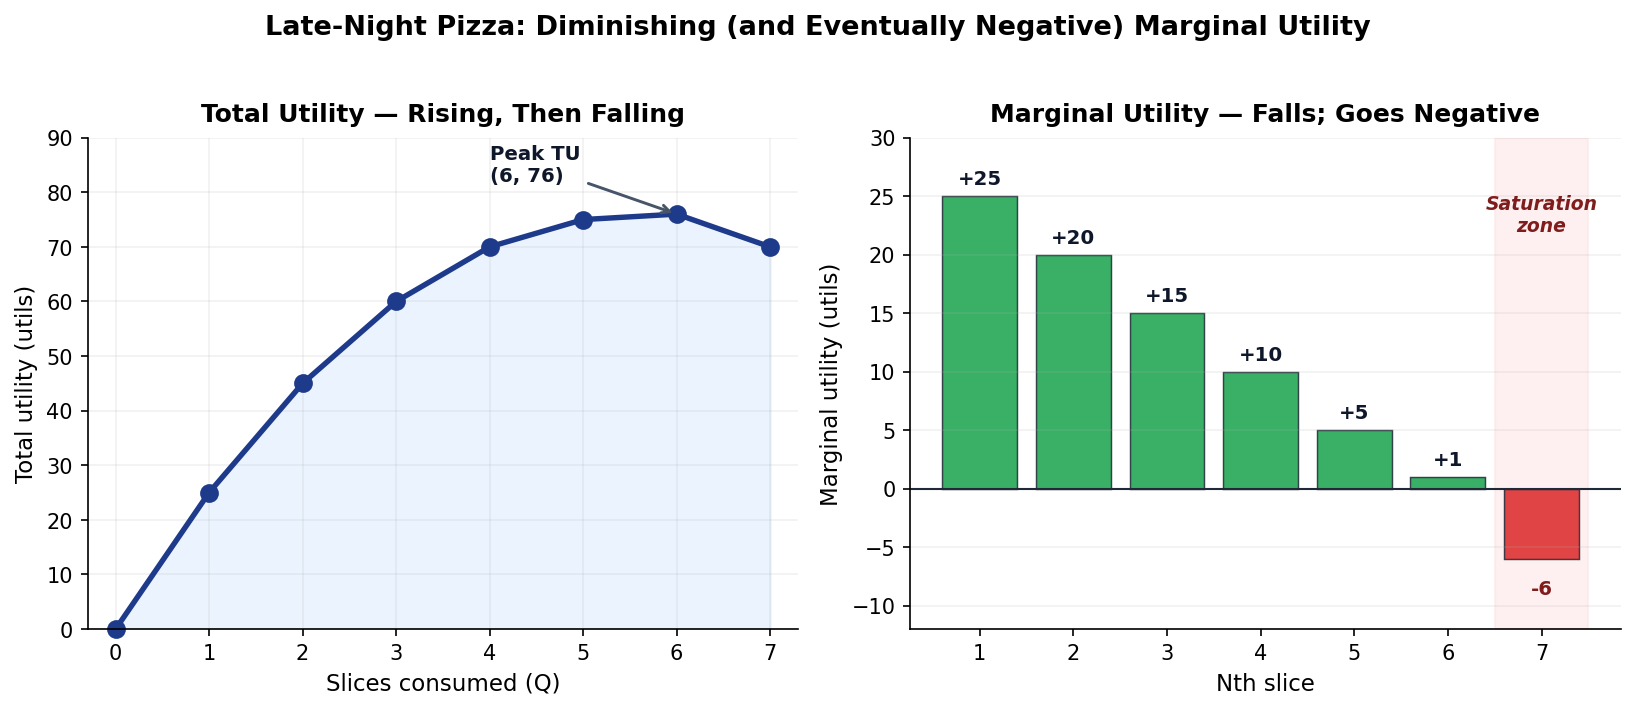
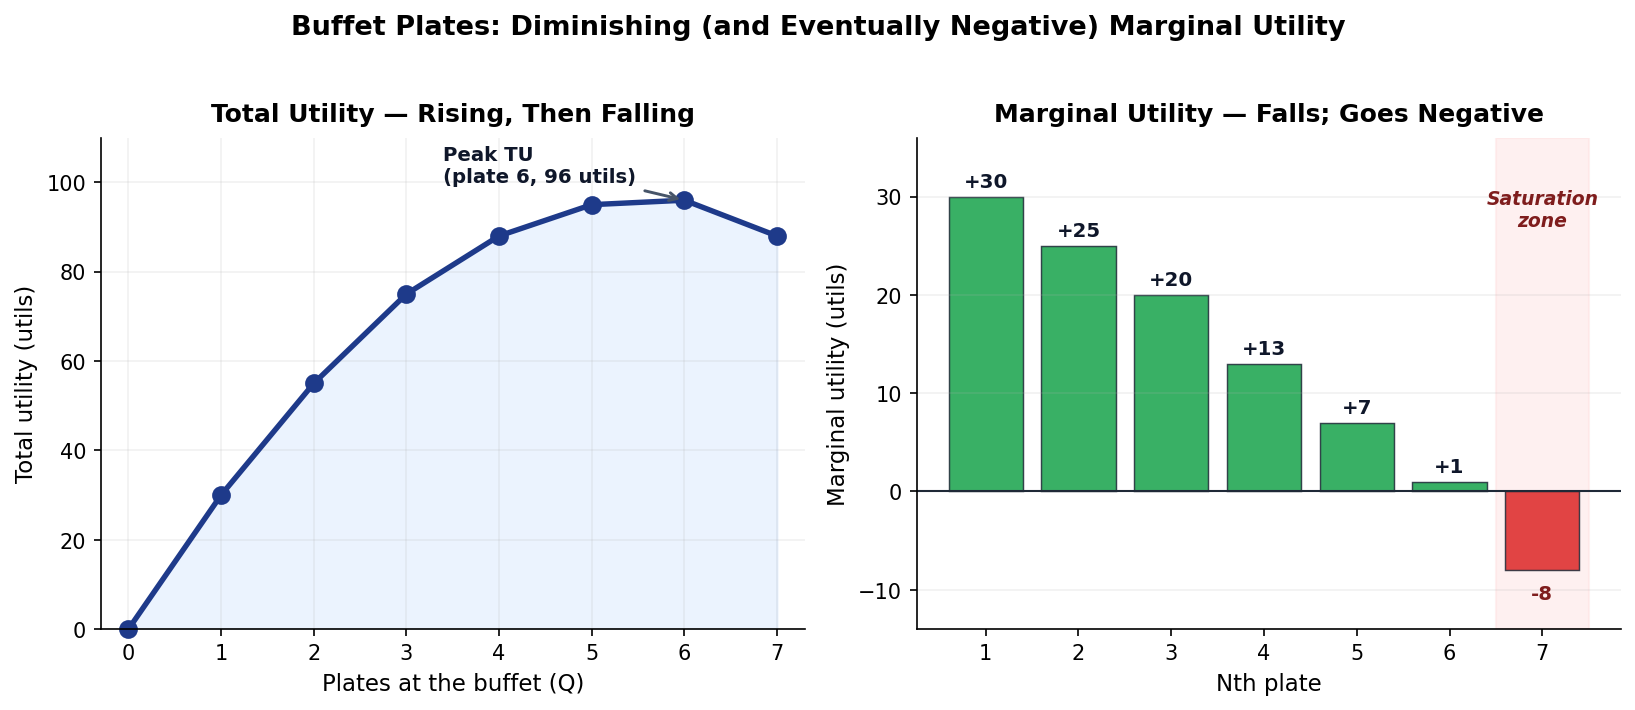
ch08: buffet diminishing-MU + binge-watching case + saturation point
Three coordinated changes around the diminishing-MU block:

1. Page 29 (diminishing-mu) — switched the example from late-night
   pizza to all-you-can-eat buffet PLATES, to match the buffet
   imagery in the preceding LDMR.mp4 video. Regenerated figure
   with new title "Buffet Plates" + plate-axis labels. Tuned MU
   sequence: +30, +25, +20, +13, +7, +1, −8 (clear saturation at
   plate 7). Peak TU at plate 6, 96 utils.

2. New page 32 (binge-watching-mu) — case study: Binge-watching
   "The Last of Us". MU bar chart with 4 episodes:
     Ep 1: 100 (Hooked, green)
     Ep 3: 60  (Satisfied, green)
     Ep 6: 0   (Indifferent, gray on zero-line)
     Ep 7: -20 (Disutility / Boredom, red)
   Closing accent callout: "The satisfaction from 'one more unit'
   falls with every episode. Eventually, consumption lowers
   well-being."

3. New page 33 (saturation-point) — "How Netflix FIGHTS the Law."
   Left half: TU curve hitting Point of Satiety (red dot, MU=0)
   then declining into the red "Auto-Play Zone." Right half: 5
   concrete Netflix anti-LDMR tactics — cliffhangers, 5-sec
   auto-play countdown, delayed "Are you still watching?",
   no commercials / no natural break points, recommendation
   engine. Closing red callout: consumers spend hours past their
   point of satiety, well-being falls but engagement metrics
   keep climbing.

Total slides 66 → 68. Standard ch08 style throughout — h2 heading,
warm-paper cards, no dark-green title bars or tilted sticky notes.

diff --git a/econ1116/ch08-consumer-choice/index.html b/econ1116/ch08-consumer-choice/index.html
@@ -1244,13 +1244,13 @@ The punchline — "variety in the middle" — previews two later concepts: (a) c
 </section>
 
 <section id="diminishing-mu">
- <h2>Diminishing Marginal Utility &mdash; The Late-Night Pizza Test</h2>
+ <h2><i class="fa-solid fa-utensils" style="color: var(--accent-color);"></i> Diminishing Marginal Utility &mdash; The All-You-Can-Eat Buffet Test</h2>
  <div style="text-align: center;">
-  <img alt="Total utility and marginal utility from pizza slices" src="figures/figure_002_diminishing_mu.png" style="max-height: 480px; max-width: 95%;">
+  <img alt="Total utility and marginal utility from buffet plates" src="figures/figure_002_diminishing_mu.png" style="max-height: 460px; max-width: 95%;">
  </div>
- <p style="font-size: 13pt; color: var(--muted-color); text-align: center; margin-top: 6px; font-style: italic;"><strong>Law of diminishing MU:</strong> as you consume more, each next unit adds less &mdash; until it adds nothing, then turns negative.</p>
+ <p style="font-size: 13pt; color: var(--muted-color); text-align: center; margin-top: 6px; font-style: italic;"><strong>Law of diminishing MU:</strong> plate 1 is heaven; by plate 5 you&rsquo;re full; plate 7 makes you feel sick. Each next plate adds less &mdash; until it adds nothing, then turns negative.</p>
  <aside class="notes">
-  Universal student example. First slice: starving, MU huge. By slice 7: miserable, MU negative. Notice TU peaks (and can fall) before MU turns negative. The exact slice doesn't matter &mdash; the pattern does.
+  Direct callback to the LDMR.mp4 buffet animation students just watched. Plate 1: starving, MU huge (+30). By plate 6: plateau (MU = +1, barely worth it). Plate 7: pushed into the saturation zone, MU = -8 (eating it makes you feel worse). TU peaks at plate 6 BEFORE MU turns negative on plate 7 — that's the kink. The exact numbers don't matter; the pattern does. Connect back: this is the same law that drives the avocado MU schedule (1 fewer util per added unit) and the beef schedule (4 fewer utils per added unit).
  </aside>
 </section>
 
@@ -1298,6 +1298,58 @@ The punchline — "variety in the middle" — previews two later concepts: (a) c
  <aside class="notes">
   Connect the abstract concept to data they can verify in their own lives. The Netflix tier shift is direct evidence of marginal utility per dollar in action: people facing tighter budgets reveal that the disutility of ads is less than $11/mo.
  </aside>
+</section>
+
+<!-- ===== Binge-watching case study — Last of Us MU bars ===== -->
+<section id="binge-watching-mu">
+  <h2><i class="fa-solid fa-tv" style="color: var(--accent-color);"></i> The Law of Diminishing Marginal Utility &mdash; <em>Binge-Watching</em></h2>
+
+  <p style="font-size: 14pt; color: var(--text-color); margin: 0 0 8px;">
+    <strong>Case Study:</strong> Binge-watching <em>The Last of Us</em>. How does each next episode feel?
+  </p>
+
+  <div style="text-align: center;">
+    <img alt="Marginal utility from binge-watching The Last of Us — Ep 1 hooked, Ep 3 satisfied, Ep 6 indifferent, Ep 7 disutility" src="figures/figure_binge_watching_mu.png" style="max-height: 440px; max-width: 92%;">
+  </div>
+
+  <div style="background: #fff3e0; border-radius: 8px; padding: 10px 22px; margin-top: 12px; border-left: 4px solid var(--accent-color);">
+    <p style="font-size: 13.5pt; margin: 0; text-align: center;">
+      The satisfaction from &ldquo;one more unit&rdquo; <strong>falls with every episode</strong>. Eventually, consumption <strong>lowers</strong> well-being.
+    </p>
+  </div>
+
+  <aside class="notes">Same law as the buffet plates and the beef/avocado MU schedules — applied to entertainment. Ep 1: hooked, MU = 100 utils. Ep 3: still satisfied, MU = 60 (already declining). Ep 6: indifferent, MU = 0 — this is the SATIETY point. Ep 7: actively bored / eye-strained / regretting, MU = -20 (NEGATIVE utility — TU is now FALLING). Connects directly to the next slide on how platforms fight this with autoplay + cliffhangers. The Last of Us is a recent vivid example — most students have either binged it or know someone who has.</aside>
+</section>
+
+<!-- ===== Saturation point + Netflix anti-LDMR tactics ===== -->
+<section id="saturation-point">
+  <h2><i class="fa-solid fa-circle-pause" style="color: #dc2626;"></i> The Saturation Point &mdash; How Netflix <em>Fights</em> the Law</h2>
+
+  <div style="display: grid; grid-template-columns: 1.15fr 1fr; gap: 18px; align-items: center;">
+    <!-- LEFT: TU curve with point of satiety + auto-play zone -->
+    <div style="text-align: center;">
+      <img alt="Total utility curve hitting Point of Satiety then declining into the Auto-Play Zone" src="figures/figure_saturation_point.png" style="width: 100%; max-height: 380px;">
+    </div>
+
+    <!-- RIGHT: Netflix tactics list -->
+    <div>
+      <div style="background: #f8f6f3; border-radius: 10px; padding: 12px 20px; border-left: 4px solid var(--accent-color);">
+        <p style="font-size: 12pt; font-weight: 700; color: var(--accent-color); text-transform: uppercase; letter-spacing: 0.06em; margin: 0 0 8px;"><i class="fa-solid fa-bolt" style="margin-right: 6px;"></i>Netflix&rsquo;s anti-LDMR toolkit</p>
+        <ul style="font-size: 13pt; line-height: 1.55; margin: 0; padding-left: 22px;">
+          <li><strong>Cliffhanger endings</strong> &mdash; writers room engineers each episode to end on a question</li>
+          <li><strong>Auto-Play 5-sec countdown</strong> &mdash; next episode starts before you can decide</li>
+          <li><strong>&ldquo;Are you still watching?&rdquo;</strong> &mdash; appears only after <em>3 hours</em>, well past satiety</li>
+          <li><strong>No commercials, no natural breaks</strong> &mdash; no built-in &ldquo;stop&rdquo; signal</li>
+          <li><strong>Recommendation engine</strong> &mdash; the next show queues automatically</li>
+        </ul>
+      </div>
+      <div style="background: #fef2f2; border-radius: 8px; padding: 10px 18px; margin-top: 10px; border-left: 4px solid #dc2626;">
+        <p style="font-size: 12pt; margin: 0;"><strong style="color: #b91c1c;">Result:</strong> consumers spend hours in the &ldquo;Auto-Play Zone&rdquo; &mdash; <em>past</em> their point of satiety, where each minute lowers well-being but engagement keeps climbing.</p>
+      </div>
+    </div>
+  </div>
+
+  <aside class="notes">The flip-side of LDMR: platforms understand the law and engineer their UX to OVERRIDE it. The TU curve peaks at the Point of Satiety (MU = 0), but auto-play + cliffhangers + the 5-second countdown push viewers PAST that peak into the &ldquo;Auto-Play Zone&rdquo; where MU is negative — TU is actually FALLING but engagement metrics keep going up. Five concrete Netflix tactics on the right: cliffhanger endings, 5-sec auto-play countdown, the delayed &ldquo;Are you still watching?&rdquo; prompt (Netflix research found it&rsquo;s designed to appear only after 3 episodes ~3 hours), no commercials, recommendation engine. This is a preview of Section 8.5 (behavioral economics) — design exploits a known cognitive shortcut. Also a connection back to subscription fatigue: even though MU per dollar is falling, Netflix can charge more because it engineered consumers into the saturation zone where they don&rsquo;t notice the diminishing returns until they cancel.</aside>
 </section>
 
 <!-- ============ HOOK: $200 ENTERTAINMENT BUDGET ============ -->

diff --git a/econ1116/ch08-consumer-choice/presentation.html b/econ1116/ch08-consumer-choice/presentation.html
@@ -1244,13 +1244,13 @@ The punchline — "variety in the middle" — previews two later concepts: (a) c
 </section>
 
 <section id="diminishing-mu">
- <h2>Diminishing Marginal Utility &mdash; The Late-Night Pizza Test</h2>
+ <h2><i class="fa-solid fa-utensils" style="color: var(--accent-color);"></i> Diminishing Marginal Utility &mdash; The All-You-Can-Eat Buffet Test</h2>
  <div style="text-align: center;">
-  <img alt="Total utility and marginal utility from pizza slices" src="figures/figure_002_diminishing_mu.png" style="max-height: 480px; max-width: 95%;">
+  <img alt="Total utility and marginal utility from buffet plates" src="figures/figure_002_diminishing_mu.png" style="max-height: 460px; max-width: 95%;">
  </div>
- <p style="font-size: 13pt; color: var(--muted-color); text-align: center; margin-top: 6px; font-style: italic;"><strong>Law of diminishing MU:</strong> as you consume more, each next unit adds less &mdash; until it adds nothing, then turns negative.</p>
+ <p style="font-size: 13pt; color: var(--muted-color); text-align: center; margin-top: 6px; font-style: italic;"><strong>Law of diminishing MU:</strong> plate 1 is heaven; by plate 5 you&rsquo;re full; plate 7 makes you feel sick. Each next plate adds less &mdash; until it adds nothing, then turns negative.</p>
  <aside class="notes">
-  Universal student example. First slice: starving, MU huge. By slice 7: miserable, MU negative. Notice TU peaks (and can fall) before MU turns negative. The exact slice doesn't matter &mdash; the pattern does.
+  Direct callback to the LDMR.mp4 buffet animation students just watched. Plate 1: starving, MU huge (+30). By plate 6: plateau (MU = +1, barely worth it). Plate 7: pushed into the saturation zone, MU = -8 (eating it makes you feel worse). TU peaks at plate 6 BEFORE MU turns negative on plate 7 — that's the kink. The exact numbers don't matter; the pattern does. Connect back: this is the same law that drives the avocado MU schedule (1 fewer util per added unit) and the beef schedule (4 fewer utils per added unit).
  </aside>
 </section>
 
@@ -1298,6 +1298,58 @@ The punchline — "variety in the middle" — previews two later concepts: (a) c
  <aside class="notes">
   Connect the abstract concept to data they can verify in their own lives. The Netflix tier shift is direct evidence of marginal utility per dollar in action: people facing tighter budgets reveal that the disutility of ads is less than $11/mo.
  </aside>
+</section>
+
+<!-- ===== Binge-watching case study — Last of Us MU bars ===== -->
+<section id="binge-watching-mu">
+  <h2><i class="fa-solid fa-tv" style="color: var(--accent-color);"></i> The Law of Diminishing Marginal Utility &mdash; <em>Binge-Watching</em></h2>
+
+  <p style="font-size: 14pt; color: var(--text-color); margin: 0 0 8px;">
+    <strong>Case Study:</strong> Binge-watching <em>The Last of Us</em>. How does each next episode feel?
+  </p>
+
+  <div style="text-align: center;">
+    <img alt="Marginal utility from binge-watching The Last of Us — Ep 1 hooked, Ep 3 satisfied, Ep 6 indifferent, Ep 7 disutility" src="figures/figure_binge_watching_mu.png" style="max-height: 440px; max-width: 92%;">
+  </div>
+
+  <div style="background: #fff3e0; border-radius: 8px; padding: 10px 22px; margin-top: 12px; border-left: 4px solid var(--accent-color);">
+    <p style="font-size: 13.5pt; margin: 0; text-align: center;">
+      The satisfaction from &ldquo;one more unit&rdquo; <strong>falls with every episode</strong>. Eventually, consumption <strong>lowers</strong> well-being.
+    </p>
+  </div>
+
+  <aside class="notes">Same law as the buffet plates and the beef/avocado MU schedules — applied to entertainment. Ep 1: hooked, MU = 100 utils. Ep 3: still satisfied, MU = 60 (already declining). Ep 6: indifferent, MU = 0 — this is the SATIETY point. Ep 7: actively bored / eye-strained / regretting, MU = -20 (NEGATIVE utility — TU is now FALLING). Connects directly to the next slide on how platforms fight this with autoplay + cliffhangers. The Last of Us is a recent vivid example — most students have either binged it or know someone who has.</aside>
+</section>
+
+<!-- ===== Saturation point + Netflix anti-LDMR tactics ===== -->
+<section id="saturation-point">
+  <h2><i class="fa-solid fa-circle-pause" style="color: #dc2626;"></i> The Saturation Point &mdash; How Netflix <em>Fights</em> the Law</h2>
+
+  <div style="display: grid; grid-template-columns: 1.15fr 1fr; gap: 18px; align-items: center;">
+    <!-- LEFT: TU curve with point of satiety + auto-play zone -->
+    <div style="text-align: center;">
+      <img alt="Total utility curve hitting Point of Satiety then declining into the Auto-Play Zone" src="figures/figure_saturation_point.png" style="width: 100%; max-height: 380px;">
+    </div>
+
+    <!-- RIGHT: Netflix tactics list -->
+    <div>
+      <div style="background: #f8f6f3; border-radius: 10px; padding: 12px 20px; border-left: 4px solid var(--accent-color);">
+        <p style="font-size: 12pt; font-weight: 700; color: var(--accent-color); text-transform: uppercase; letter-spacing: 0.06em; margin: 0 0 8px;"><i class="fa-solid fa-bolt" style="margin-right: 6px;"></i>Netflix&rsquo;s anti-LDMR toolkit</p>
+        <ul style="font-size: 13pt; line-height: 1.55; margin: 0; padding-left: 22px;">
+          <li><strong>Cliffhanger endings</strong> &mdash; writers room engineers each episode to end on a question</li>
+          <li><strong>Auto-Play 5-sec countdown</strong> &mdash; next episode starts before you can decide</li>
+          <li><strong>&ldquo;Are you still watching?&rdquo;</strong> &mdash; appears only after <em>3 hours</em>, well past satiety</li>
+          <li><strong>No commercials, no natural breaks</strong> &mdash; no built-in &ldquo;stop&rdquo; signal</li>
+          <li><strong>Recommendation engine</strong> &mdash; the next show queues automatically</li>
+        </ul>
+      </div>
+      <div style="background: #fef2f2; border-radius: 8px; padding: 10px 18px; margin-top: 10px; border-left: 4px solid #dc2626;">
+        <p style="font-size: 12pt; margin: 0;"><strong style="color: #b91c1c;">Result:</strong> consumers spend hours in the &ldquo;Auto-Play Zone&rdquo; &mdash; <em>past</em> their point of satiety, where each minute lowers well-being but engagement keeps climbing.</p>
+      </div>
+    </div>
+  </div>
+
+  <aside class="notes">The flip-side of LDMR: platforms understand the law and engineer their UX to OVERRIDE it. The TU curve peaks at the Point of Satiety (MU = 0), but auto-play + cliffhangers + the 5-second countdown push viewers PAST that peak into the &ldquo;Auto-Play Zone&rdquo; where MU is negative — TU is actually FALLING but engagement metrics keep going up. Five concrete Netflix tactics on the right: cliffhanger endings, 5-sec auto-play countdown, the delayed &ldquo;Are you still watching?&rdquo; prompt (Netflix research found it&rsquo;s designed to appear only after 3 episodes ~3 hours), no commercials, recommendation engine. This is a preview of Section 8.5 (behavioral economics) — design exploits a known cognitive shortcut. Also a connection back to subscription fatigue: even though MU per dollar is falling, Netflix can charge more because it engineered consumers into the saturation zone where they don&rsquo;t notice the diminishing returns until they cancel.</aside>
 </section>
 
 <!-- ============ HOOK: $200 ENTERTAINMENT BUDGET ============ -->
